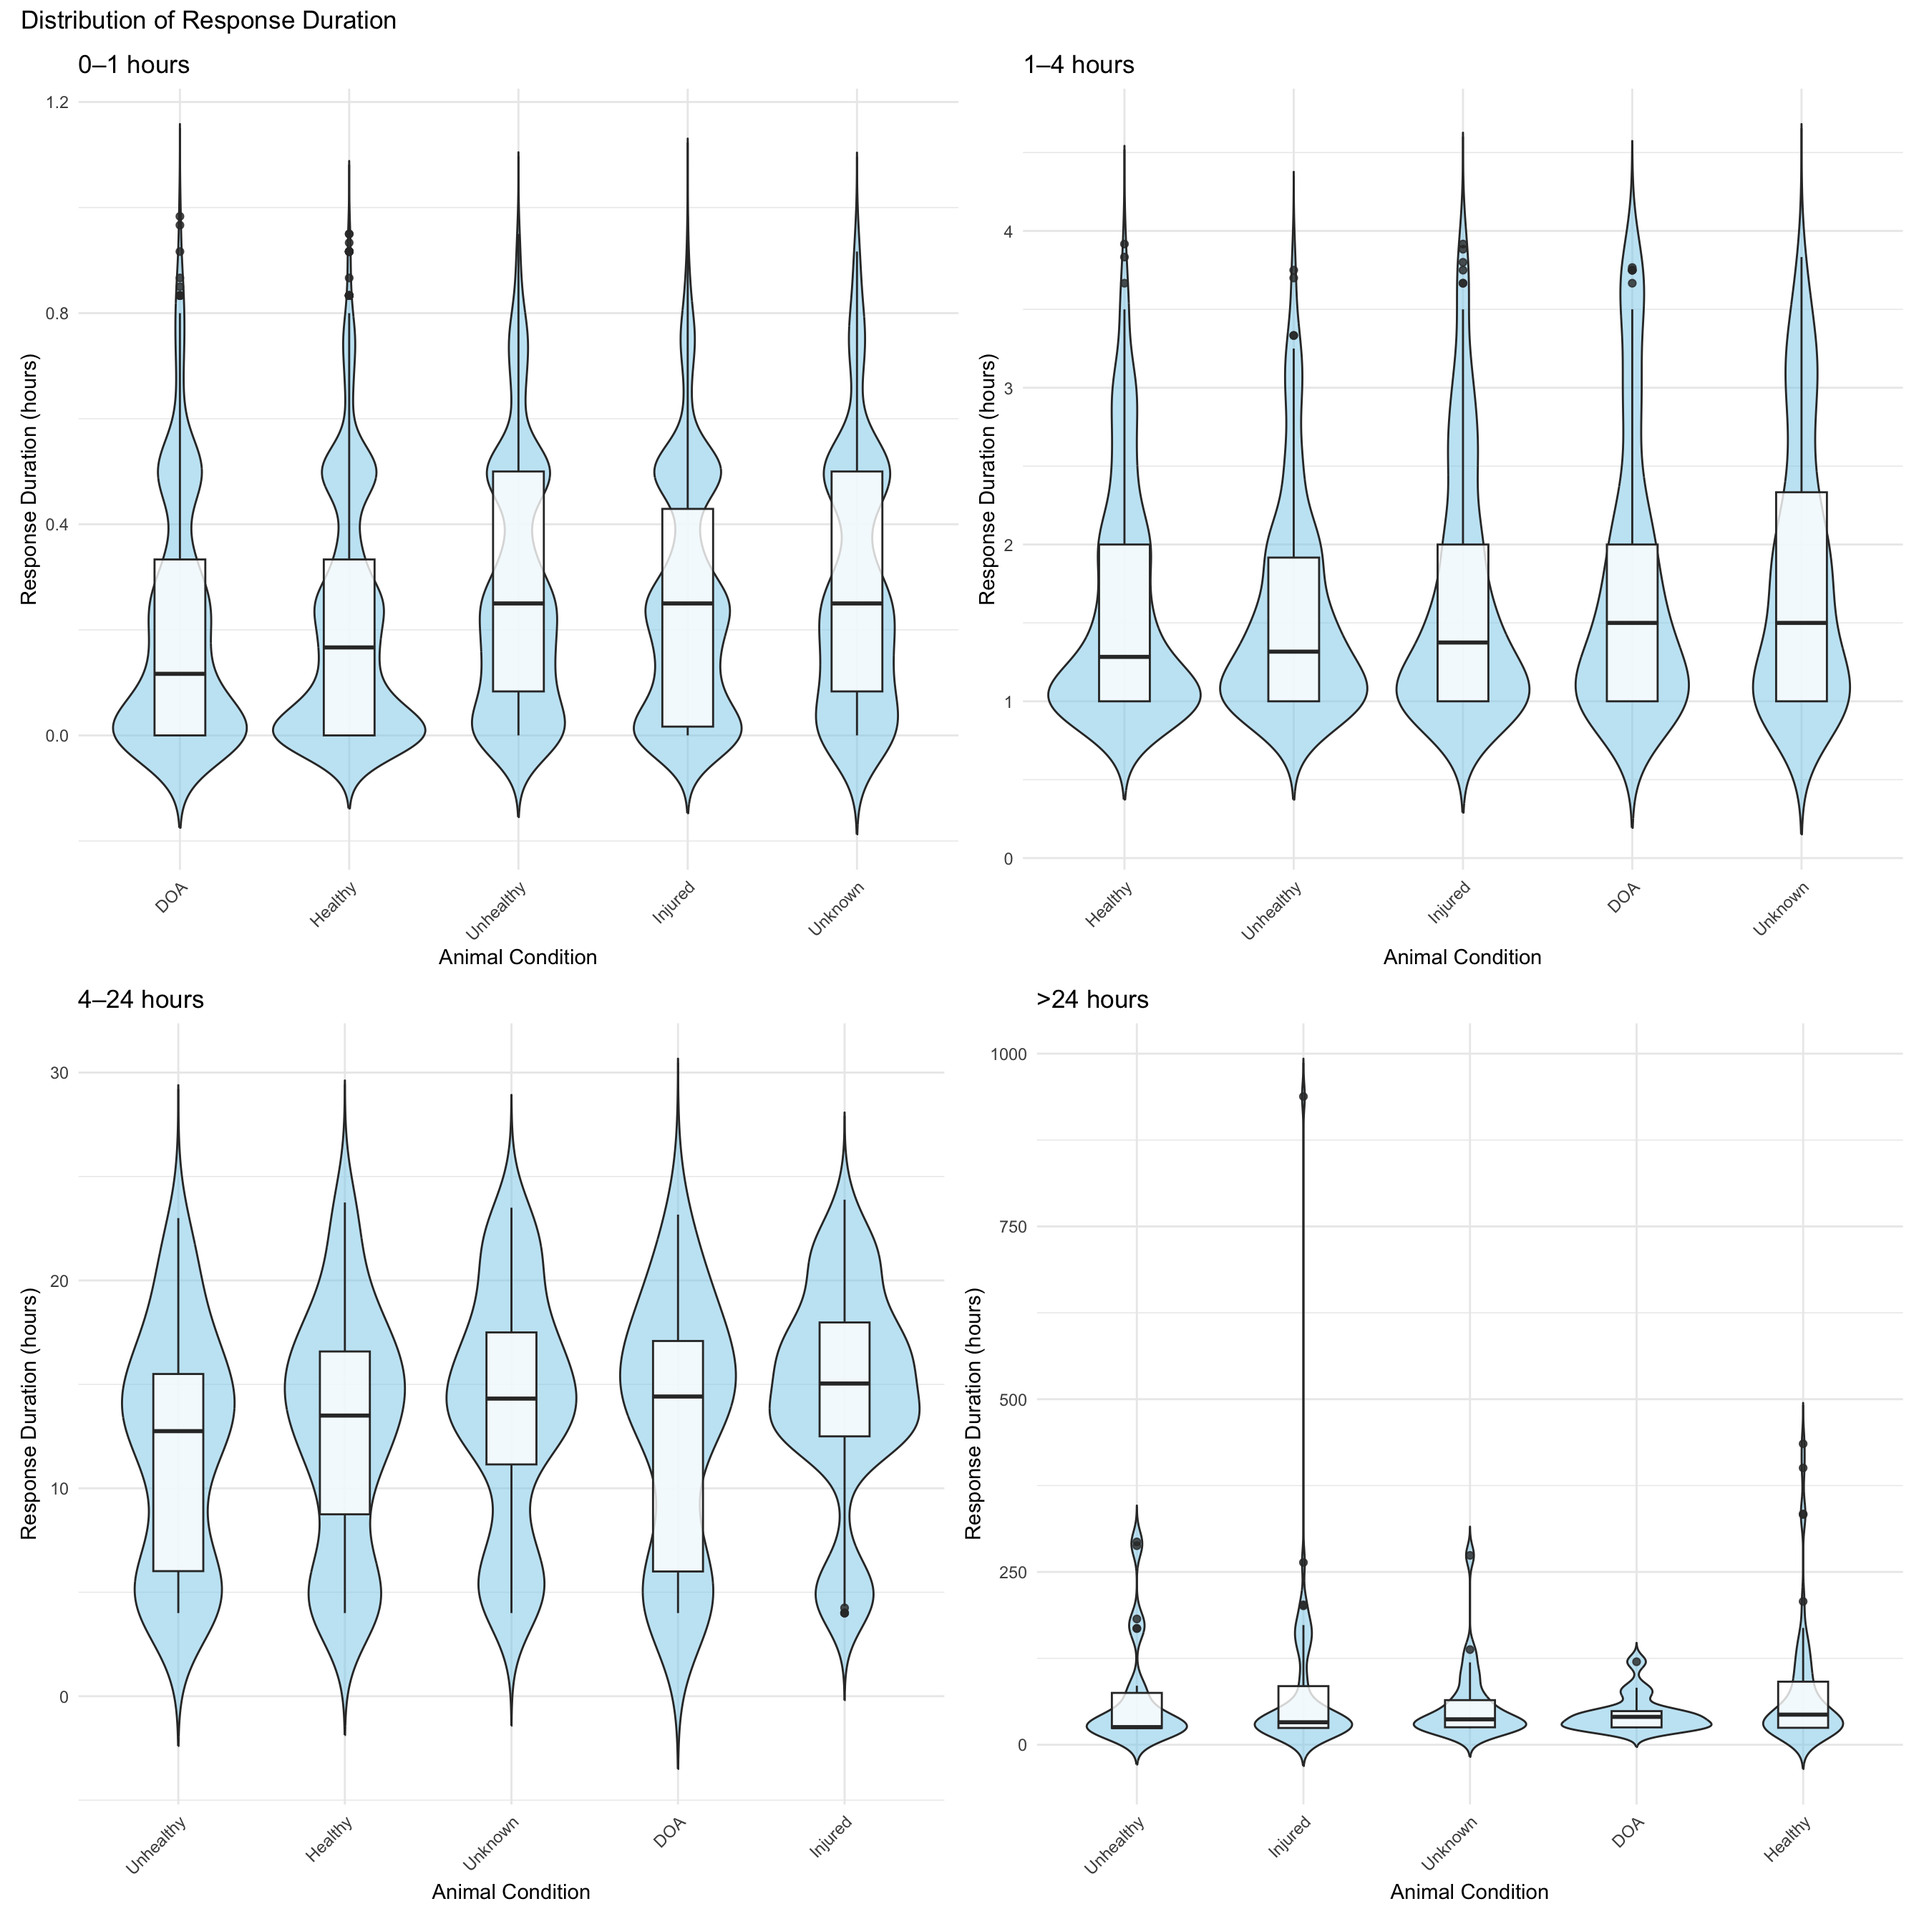
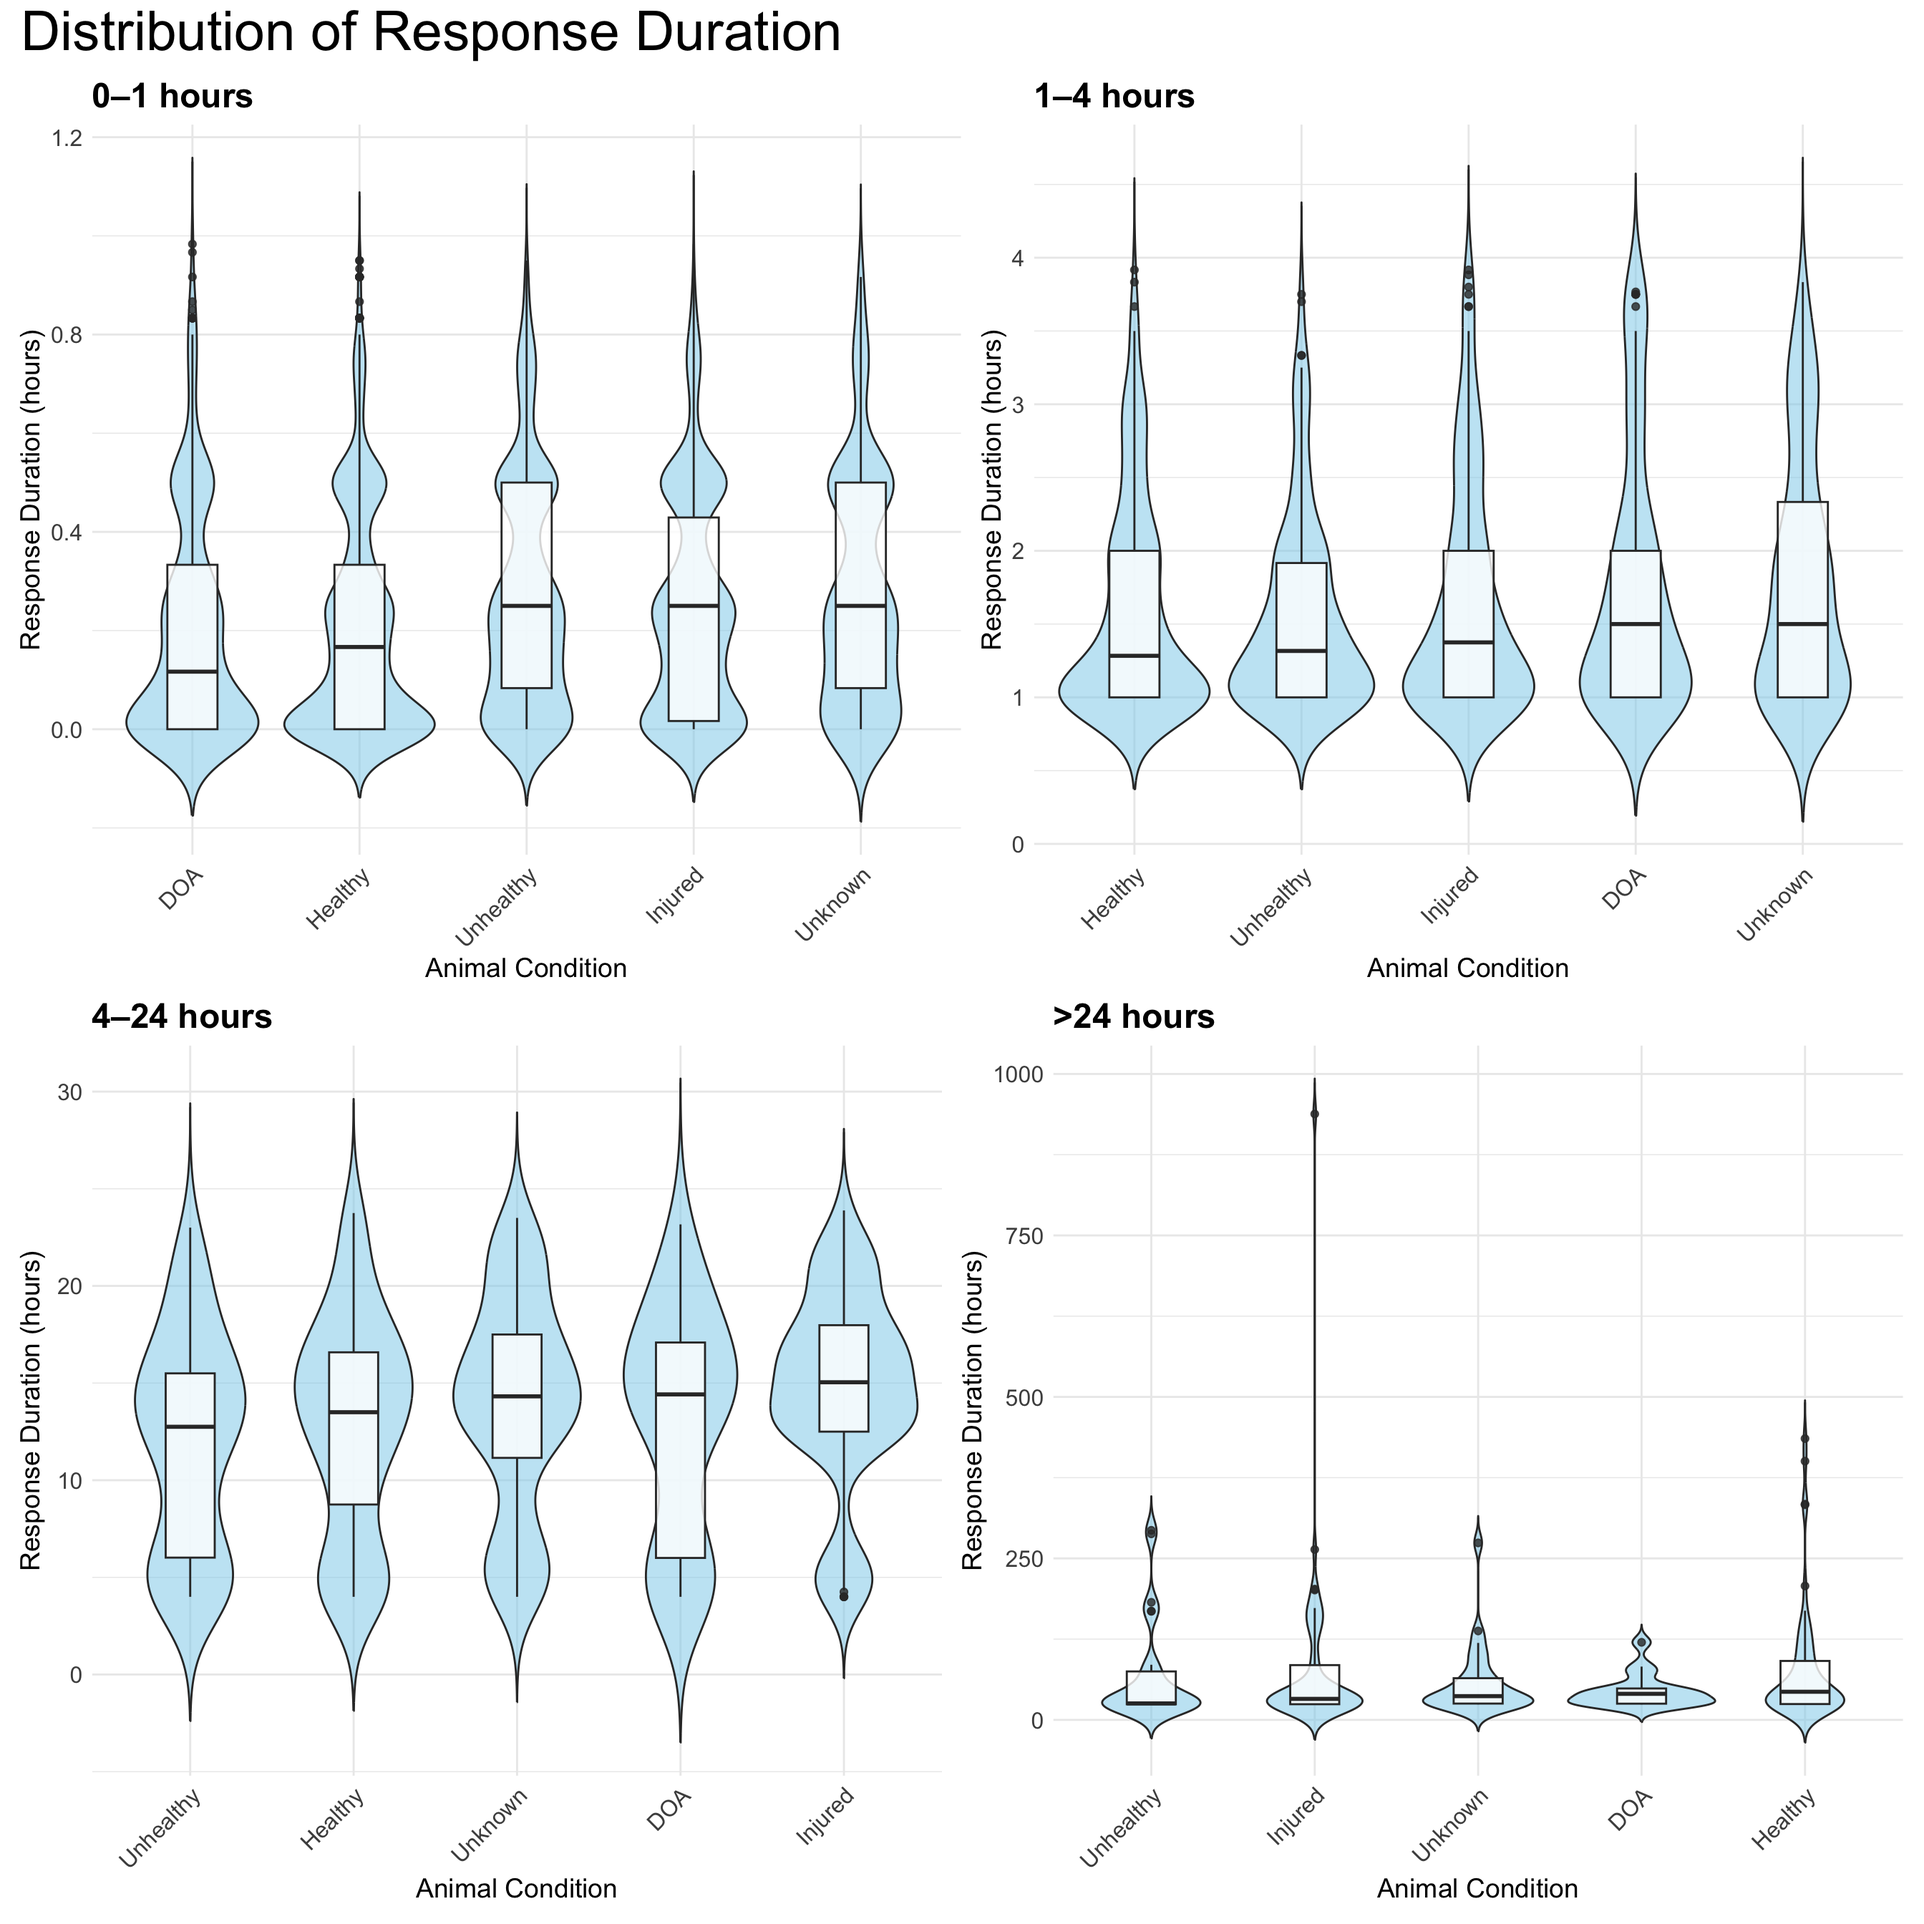
ranger upadte 11.30

diff --git a/Ranger-Response.html b/Ranger-Response.html
@@ -458,8 +458,13 @@ resp_dur_dist_plot = function(df, title_suffix) {
     labs(title = title_suffix,
          x = &quot;Animal Condition&quot;, y = &quot;Response Duration (hours)&quot;) +
     theme_minimal() +
-    theme(axis.text.x = element_text(angle = 45, hjust = 1))
-}
+    theme(
+      plot.title = element_text(size = 18, face = &quot;bold&quot;),
+      axis.title = element_text(size = 14),
+      axis.text  = element_text(size = 12),
+      axis.text.x = element_text(angle = 45, hjust = 1, size = 12)
+    )
+  }
 
 p1 = resp_dur_dist %&gt;% 
   filter(resp_bin == &quot;0-1 hours&quot;) %&gt;% 
@@ -477,7 +482,8 @@ p4 = resp_dur_dist %&gt;%
   filter(resp_bin == &quot;&gt;24 hours&quot;) %&gt;% 
   resp_dur_dist_plot(&quot;&gt;24 hours&quot;)
 
-(p1 | p2) / (p3 | p4) + plot_annotation(title =&quot;Distribution of Response Duration&quot;)</code></pre>
+(p1 | p2) / (p3 | p4) + plot_annotation(title =&quot;Distribution of Response Duration&quot;) &amp;
+  theme(text = element_text(size = 24))</code></pre>
 <p><img src="Ranger-Response_files/figure-html/unnamed-chunk-3-1.png" width="1344" /></p>
 <p>Because response durations are highly right-skewed, the data were
 split more at the lower end (0–1 and 1–4 hours) where most observations
